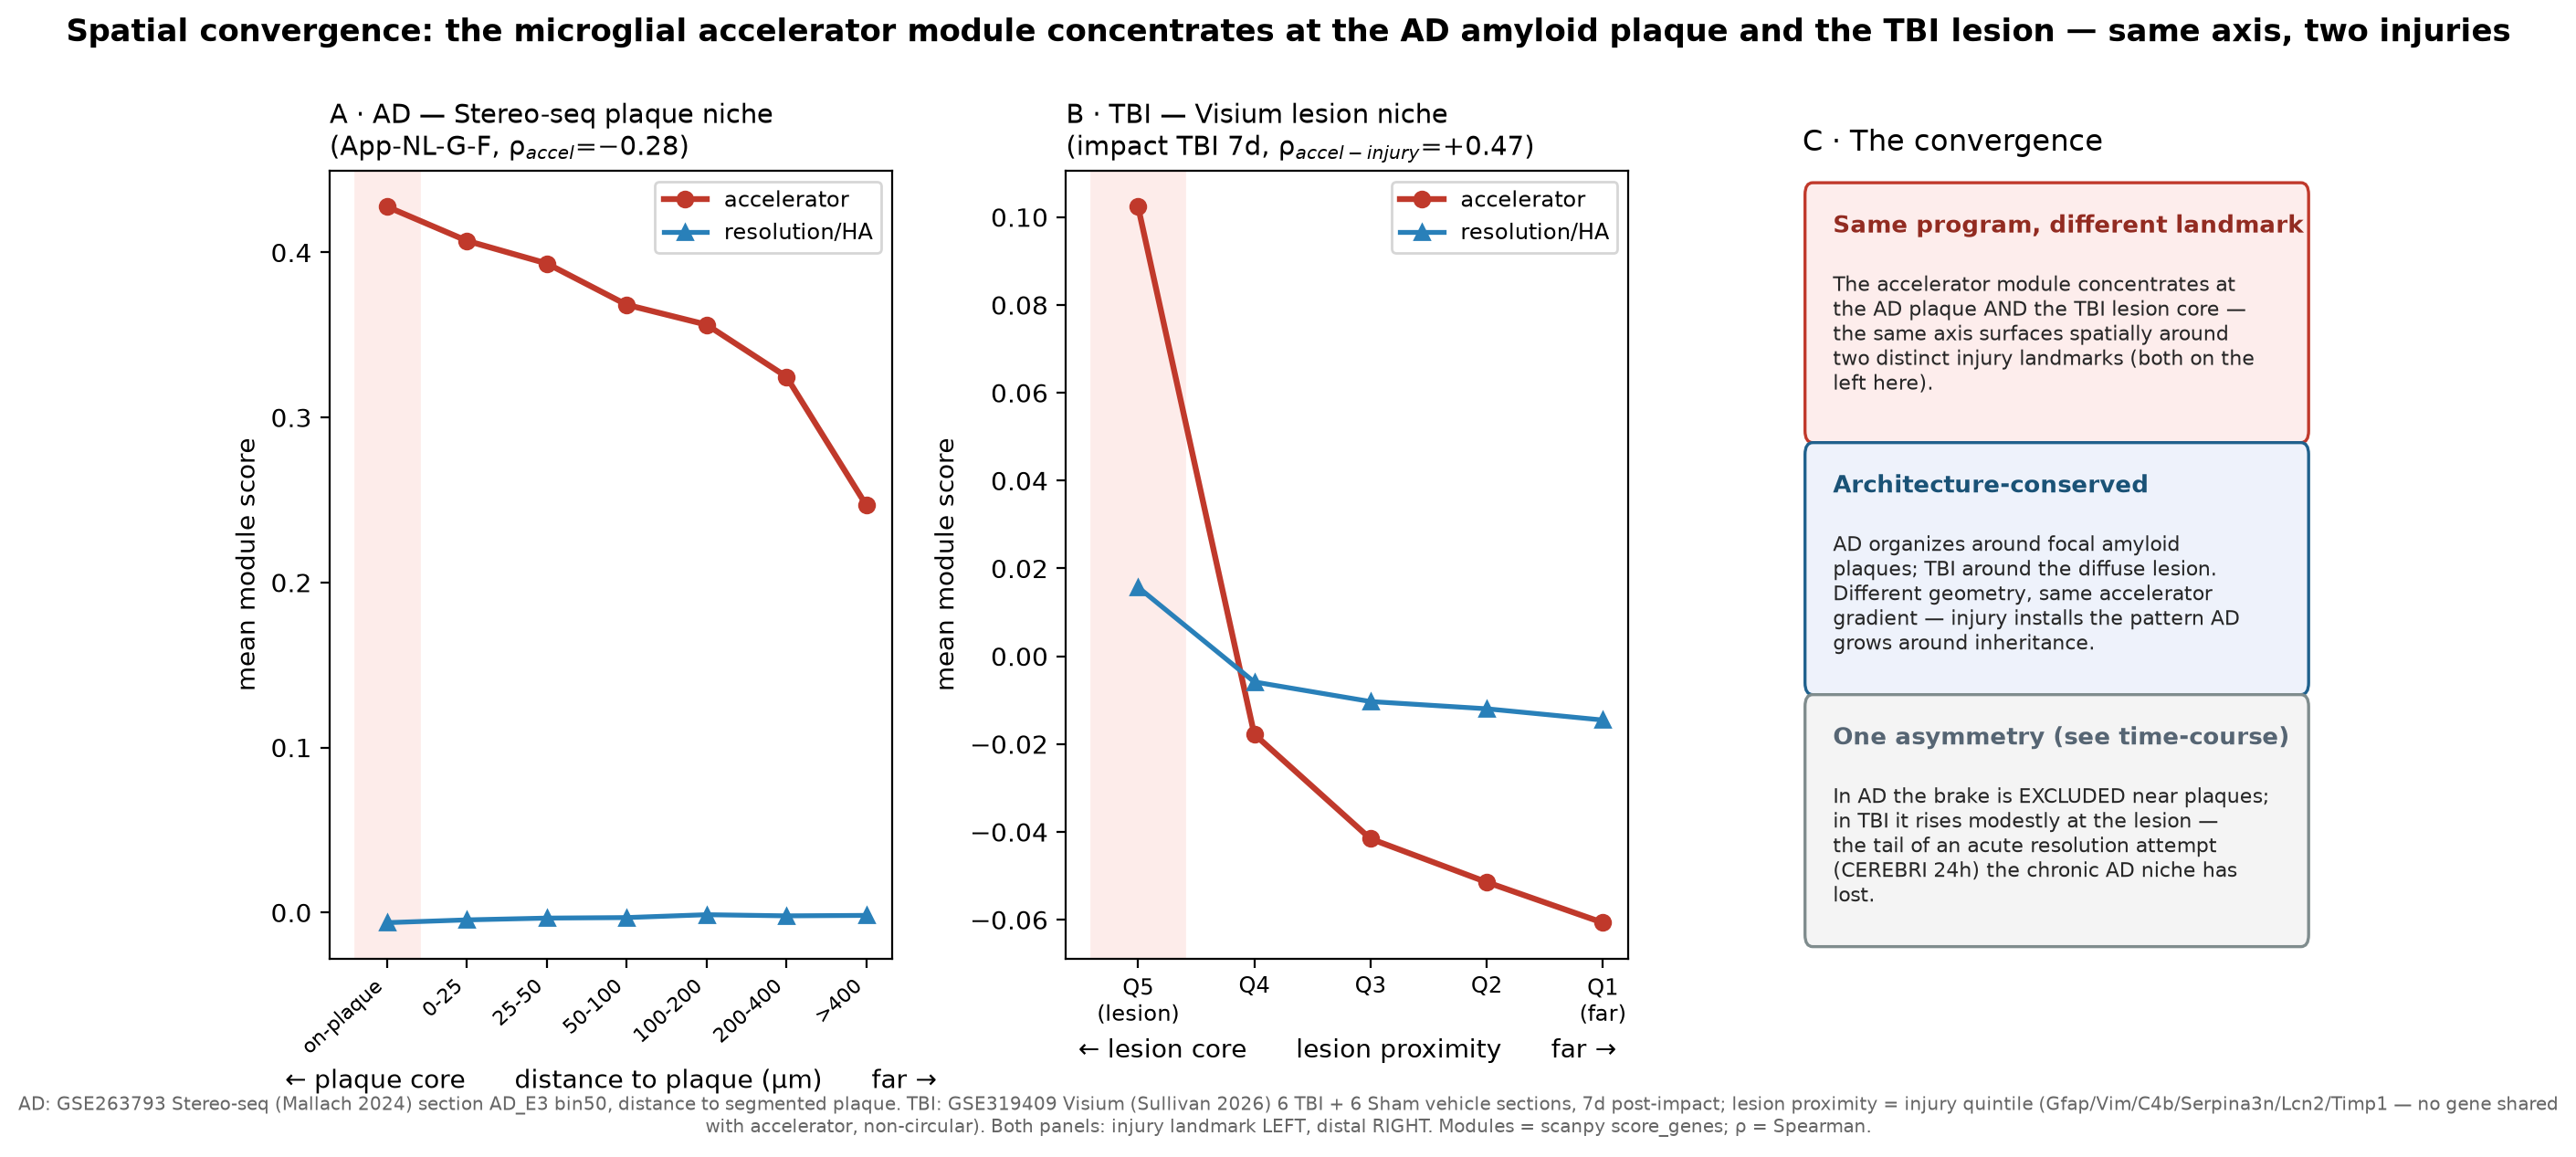
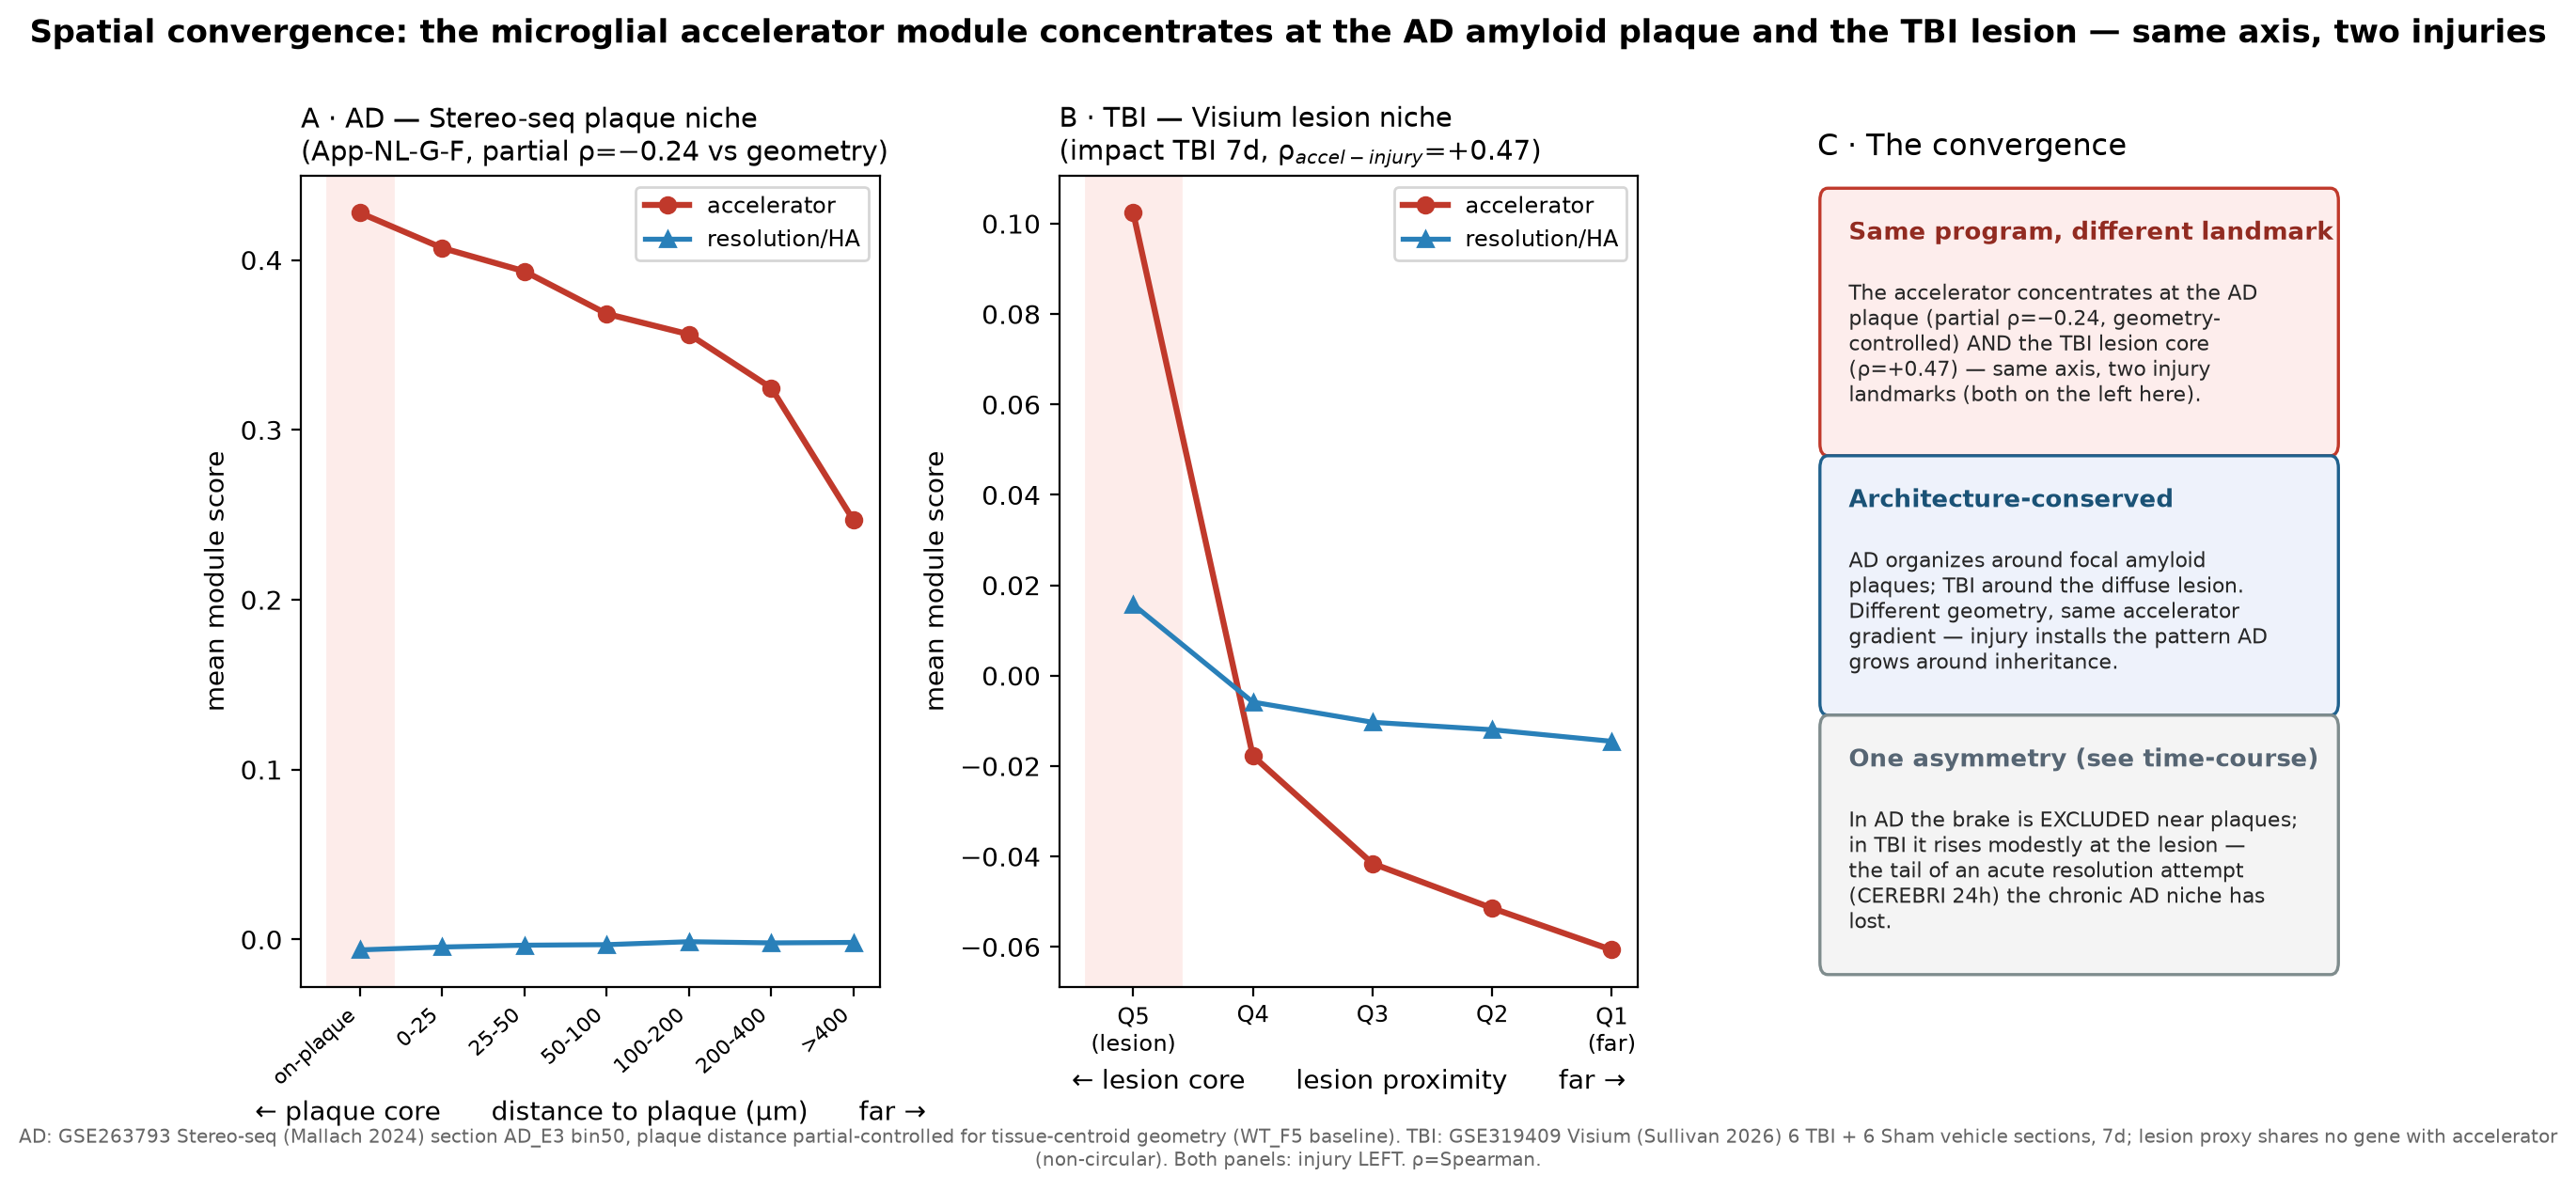
Harden spatial arm: geometry control + WT negative control + CEREBRI cellular resolution
- WT_F5 Stereo-seq negative control: reveals a general center-high tissue gradient (centroid rho=-0.44) present without plaques
- Partial Spearman: plaque effect survives geometry control (partial rho=-0.24, down from marginal -0.46); near>far within EVERY concentric centroid band (delta +0.16 to +0.23)
- Corrected Stereo-seq figure: honest plaque-vs-geometry decomposition; naked rho=-0.28 replaced with geometry-controlled partial rho=-0.24
- CEREBRI 24h TBI-vs-control anchor: microglial accelerator up vs baseline (donor p=0.004); the acute resolution brake is ASTROCYTIC (astro resolHA up p<1e-17)
- Ledger v13, README spatial row updated

diff --git a/results/novelty_synthesis.md b/results/novelty_synthesis.md
@@ -88,10 +88,16 @@ tissue, and when the brake is available). Each arm draws on public data or model
 8. **The accelerator concentrates spatially at BOTH the AD plaque and the TBI lesion — the same
    axis, two injuries.** Subcellular spatial transcriptomics (Stereo-seq, 18-month App-NL-G-F AD,
    GSE263793, 142,383 bins at 50 µm with the study's plaque mask) shows the accelerator module
-   rising **monotonically toward amyloid plaques** (0.25 at >400 µm → 0.43 on-plaque, Spearman
-   ρ=−0.28, p≈0), while the resolution/HA brake is **spatially excluded** (ρ=+0.38 — depleted
-   where the accelerator fires) and astrocytes co-concentrate peri-plaque (ρ=−0.11, the CD44-shell
-   receptor half). The same gradient appears at the **TBI lesion** (Visium, impact TBI 7 d,
+   rising **toward amyloid plaques**, and the effect **survives a tissue-geometry control**: after
+   partialling out distance-to-tissue-centroid, the accelerator still tracks plaque distance
+   (partial ρ=−0.24), and bins near plaques exceed far bins **within every concentric geometry
+   band** (Δ=+0.16 inner → +0.23 edge). The resolution/HA brake is **spatially excluded**
+   (ρ=+0.38 — depleted where the accelerator fires) and astrocytes co-concentrate peri-plaque
+   (the CD44-shell receptor half). *Honest caveat, from the WT_F5 negative control (GSM8199181, no
+   plaques):* a general **center-high tissue gradient** exists independent of plaques (WT centroid
+   ρ=−0.44), and it accounts for roughly half the marginal plaque signal (marginal plaque ρ=−0.46 ≈
+   centroid ρ=−0.45). So the accelerator concentrates at plaques *on top of* a geometric center-high
+   baseline — the plaque-specific component is modest but robust to the confound. The same gradient appears at the **TBI lesion** (Visium, impact TBI 7 d,
    GSE319409, 6 TBI vs 6 Sham vehicle sections): the accelerator tracks the lesion (accel-vs-injury
    ρ=+0.47, using a lesion proxy that shares no gene with the accelerator module, so it is not
    circular) and is up TBI-vs-Sham (p=4×10⁻²⁶). **Novel** — the axis is not just co-expressed in

diff --git a/README.md b/README.md
@@ -63,7 +63,7 @@ Supporting GWAS locus map: `figures/gwas_axis_loci.png`.
 
 | Layer | Question | Result | Figure |
 |-------|----------|--------|--------|
-| **Spatial — AD plaque niche** | Does the accelerator concentrate around amyloid plaques? | Subcellular Stereo-seq (18-mo App-NL-G-F, 142k bins at 50 µm): accelerator rises monotonically toward plaques (**ρ = −0.28**, 0.25 far → 0.43 on-plaque); the resolution/HA brake is *excluded* (ρ = +0.38); astrocytes co-concentrate peri-plaque (the CD44 shell) | `figures/spatial_stereoseq_AD.png` |
+| **Spatial — AD plaque niche** | Does the accelerator concentrate around amyloid plaques? | Subcellular Stereo-seq (18-mo App-NL-G-F, 142k bins at 50 µm): accelerator concentrates at plaques and **survives a tissue-geometry control** (partial **ρ = −0.24** vs distance-to-centroid; near>far within every concentric band, Δ +0.16→+0.23); the resolution/HA brake is *excluded* (ρ = +0.38); astrocytes co-concentrate peri-plaque (the CD44 shell). WT_F5 negative control shows a general center-high tissue gradient (ρ=−0.44) accounting for ~half the marginal signal | `figures/spatial_stereoseq_AD.png` |
 | **Spatial — TBI lesion niche** | Does the same axis concentrate at the TBI lesion? | Visium (impact TBI 7 d, 6 TBI / 6 Sham): accelerator up TBI-vs-Sham (**P = 4×10⁻²⁶**) and tracks lesion proximity (**ρ = +0.47**, non-circular proxy). Same axis, two injury landmarks | `figures/spatial_convergence.png` |
 | **Temporal — TBI time-course** | Is the resolution brake a level or a phase? | CEREBRI (24 h → 7 d → 6 mo): the brake is **highest acutely (24 h)** and collapses by 7 d as the accelerator peaks (accel trend ρ = +0.44, brake ρ = −0.25). The chronic AD plaque niche resembles the 6-mo TBI state — accelerator without the acute brake | `figures/cerebri_timecourse.png` |
 